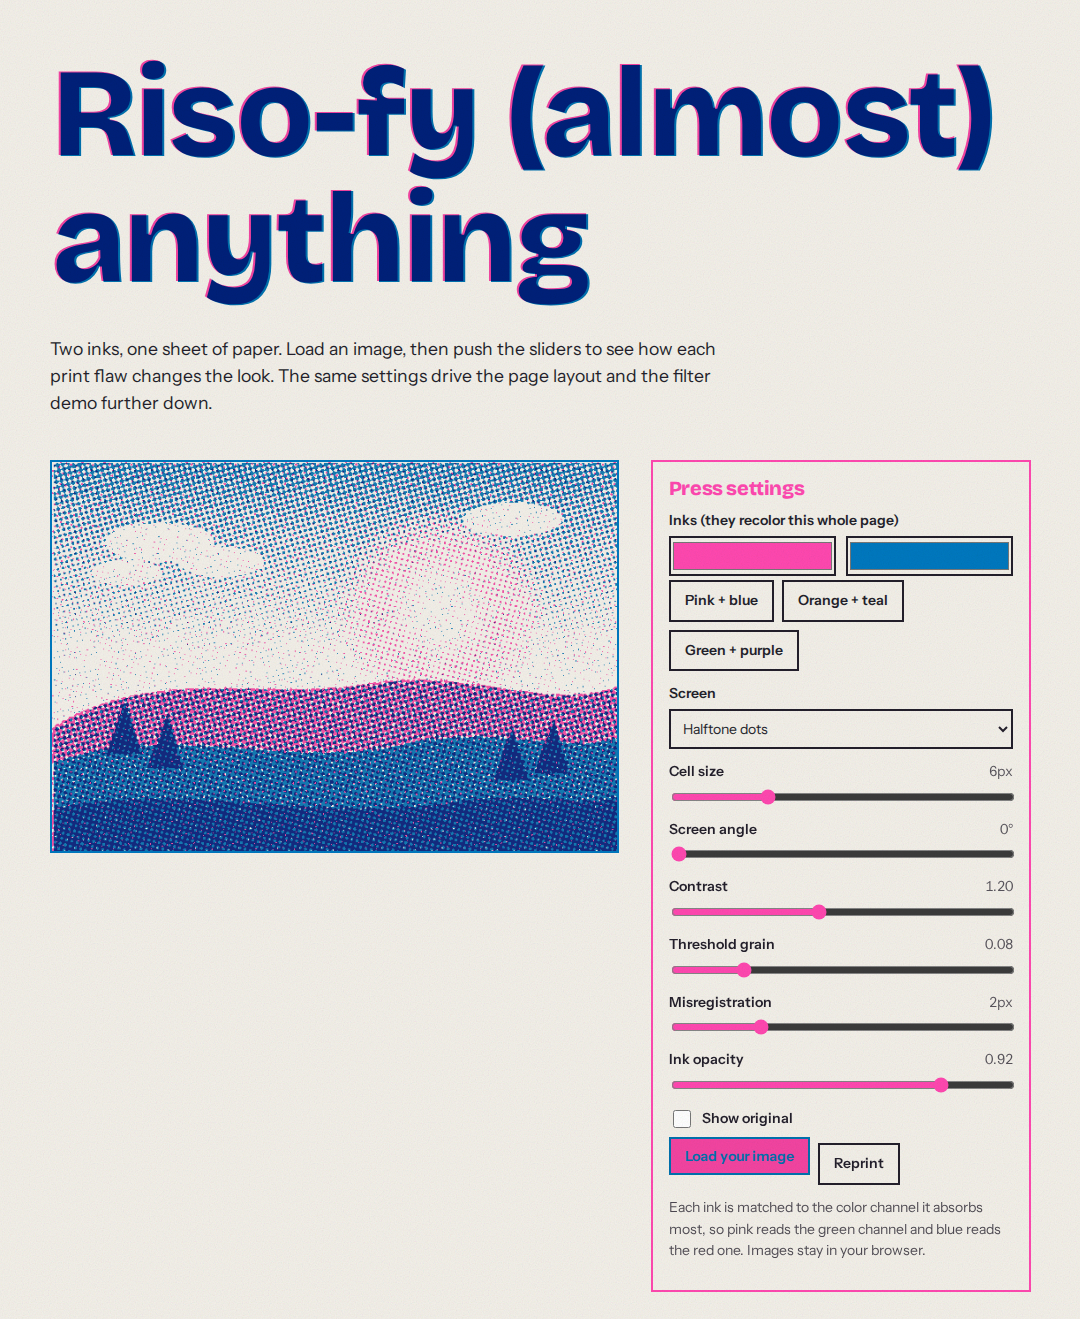
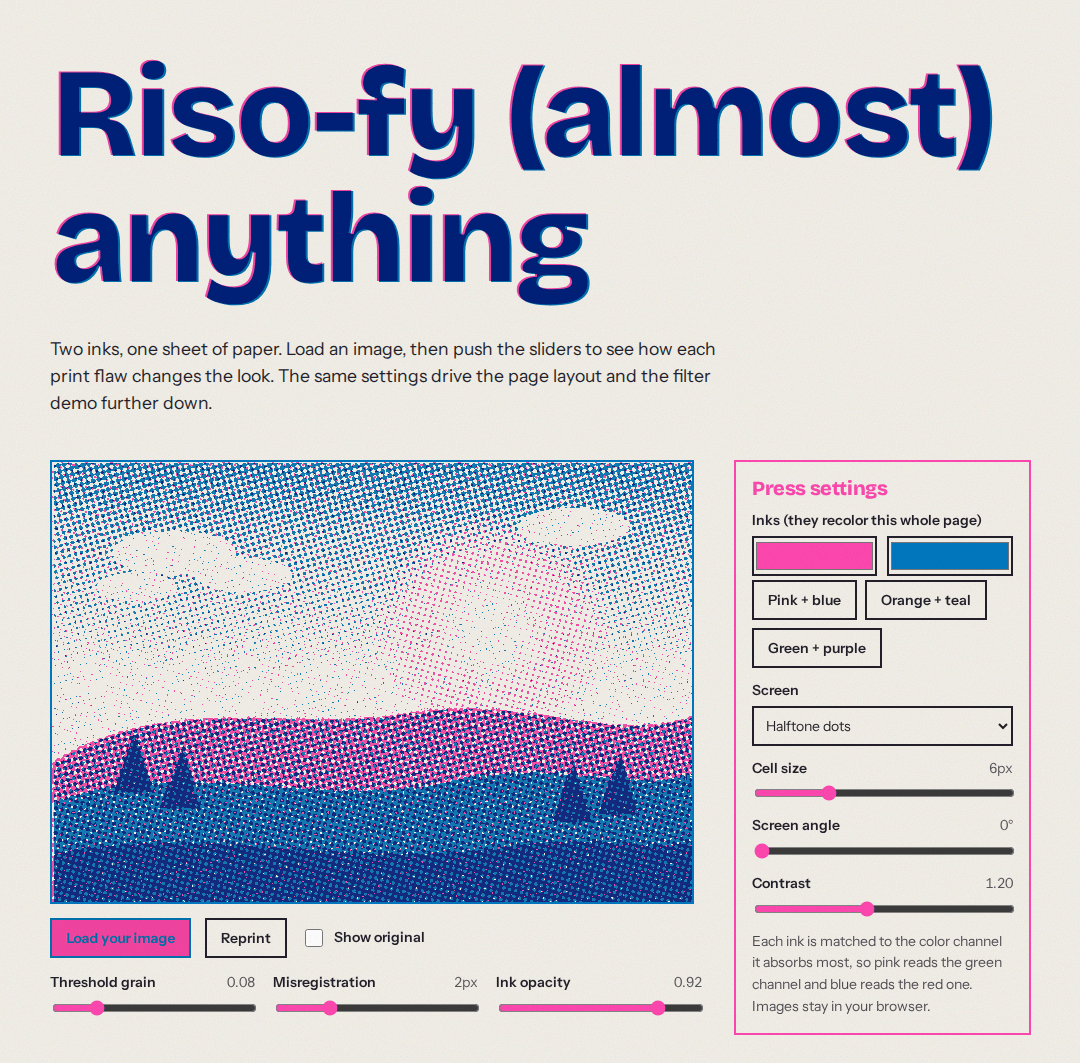
aligned the press buttons and moved the print sliders under the image

diff --git a/index.html b/index.html
@@ -18,7 +18,28 @@
   <p class="lede">Two inks, one sheet of paper. Load an image, then push the sliders to see how each print flaw changes the look. The same settings drive the page layout and the filter demo further down.</p>
 
   <div class="press">
-    <div class="frame"><canvas id="out" aria-label="Riso print preview"></canvas></div>
+    <div class="stage-col">
+      <div class="frame"><canvas id="out" aria-label="Riso print preview"></canvas></div>
+      <div class="actions">
+        <label class="file"><input type="file" id="file" accept="image/*"><span class="btn solid">Load your image</span></label>
+        <button class="btn" type="button" id="reprint">Reprint</button>
+        <label class="check"><input type="checkbox" id="orig"> Show original</label>
+      </div>
+      <div class="flaws">
+        <div class="row">
+          <label for="grain">Threshold grain <output id="grainO"></output></label>
+          <input type="range" id="grain" min="0" max="0.4" step="0.01" value="0.08">
+        </div>
+        <div class="row">
+          <label for="mis">Misregistration <output id="misO"></output></label>
+          <input type="range" id="mis" min="0" max="8" step="1" value="2">
+        </div>
+        <div class="row">
+          <label for="opacity">Ink opacity <output id="opacityO"></output></label>
+          <input type="range" id="opacity" min="0.6" max="1" step="0.01" value="0.92">
+        </div>
+      </div>
+    </div>
 
     <div class="panel">
       <h3>Press settings</h3>
@@ -57,25 +78,7 @@
         <label for="contrast">Contrast <output id="contrastO"></output></label>
         <input type="range" id="contrast" min="0.6" max="2" step="0.05" value="1.2">
       </div>
-      <div class="row">
-        <label for="grain">Threshold grain <output id="grainO"></output></label>
-        <input type="range" id="grain" min="0" max="0.4" step="0.01" value="0.08">
-      </div>
-      <div class="row">
-        <label for="mis">Misregistration <output id="misO"></output></label>
-        <input type="range" id="mis" min="0" max="8" step="1" value="2">
-      </div>
-      <div class="row">
-        <label for="opacity">Ink opacity <output id="opacityO"></output></label>
-        <input type="range" id="opacity" min="0.6" max="1" step="0.01" value="0.92">
-      </div>
 
-      <label class="check"><input type="checkbox" id="orig"> Show original</label>
-
-      <div class="presets">
-        <label class="file"><input type="file" id="file" accept="image/*"><span class="btn solid">Load your image</span></label>
-        <button class="btn" type="button" id="reprint">Reprint</button>
-      </div>
       <p class="note">Each ink is matched to the color channel it absorbs most, so pink reads the green channel and blue reads the red one. Images stay in your browser.</p>
     </div>
   </div>

diff --git a/css/styles.css b/css/styles.css
@@ -80,13 +80,15 @@ p { margin: 0 0 12px; max-width: 62ch; }
 
 .press {
   display: grid;
-  grid-template-columns: minmax(0, 1.5fr) minmax(240px, 1fr);
+  grid-template-columns: minmax(0, 2.2fr) minmax(250px, 1fr);
   gap: clamp(16px, 3vw, 32px);
   align-items: start;
 }
 @media (max-width: 780px) { .press { grid-template-columns: minmax(0, 1fr); } }
 
 .frame {
+  width: fit-content;
+  max-width: 100%;
   border: 2px solid var(--ink-b);
   line-height: 0;
   background: #fff;
@@ -115,9 +117,14 @@ select {
 .check input { width: 18px; height: 18px; accent-color: var(--ink-a); }
 
 .btn {
+  display: inline-flex;
+  align-items: center;
+  justify-content: center;
+  min-height: 40px;
   font: inherit;
   font-weight: 600;
   font-size: 14px;
+  line-height: 1.2;
   cursor: pointer;
   padding: 8px 14px;
   color: var(--text);
@@ -133,7 +140,12 @@ select {
 }
 .btn.solid:hover { background: var(--ink-b); color: var(--paper); }
 .presets { display: flex; flex-wrap: wrap; gap: 8px; }
-.file { display: inline-block; }
+.stage-col { display: grid; gap: 14px; align-content: start; min-width: 0; }
+.actions { display: flex; flex-wrap: wrap; align-items: center; gap: 10px 14px; }
+.flaws { display: grid; grid-template-columns: repeat(3, minmax(0, 1fr)); gap: 12px 18px; }
+@media (max-width: 620px) { .flaws { grid-template-columns: minmax(0, 1fr); } }
+.panel .note { margin: 0; }
+.file { position: relative; display: inline-flex; }
 .file input { position: absolute; width: 1px; height: 1px; opacity: 0; }
 .file:focus-within .btn { outline: 3px solid var(--ink-b); outline-offset: 2px; }
 button:focus-visible, select:focus-visible, input:focus-visible {

diff --git a/README.md b/README.md
@@ -124,6 +124,7 @@ Each commit adds one piece, so the history reads as the order the tool was built
 9. **linked p5.riso and marked punch card studio as coming soon.** Small wording fix in the starting point section.
 10. **made reprint shift the whole print.** Reprint used to redraw only the grain, which was hard to see. It now also shifts the dot screens, picks a new registration direction and varies the ink density a little.
 11. **made ink on ink swap the two inks.** The button in the layout section did nothing before.
+12. **aligned the press buttons and moved the print sliders under the image.** The buttons now share one height, the image shows at its native 640px, and the two columns end at about the same place.
 
 ### Decisions and gotchas
 
